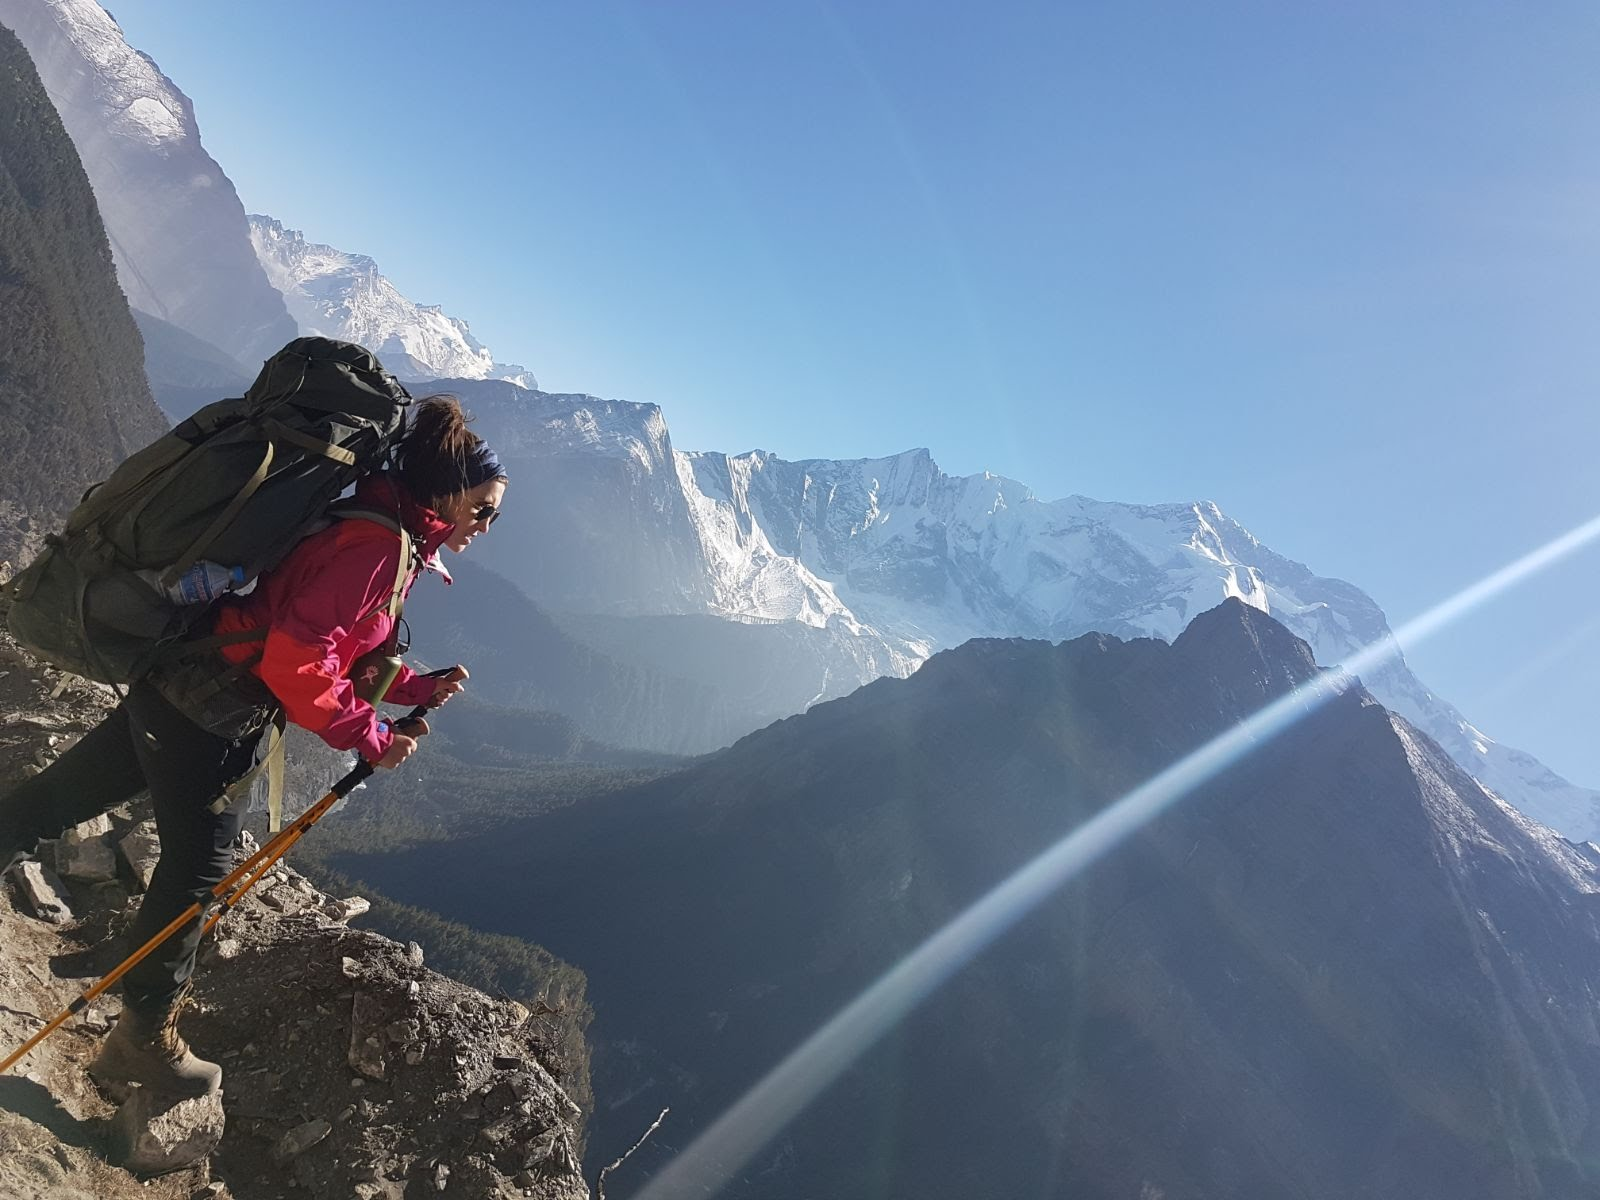
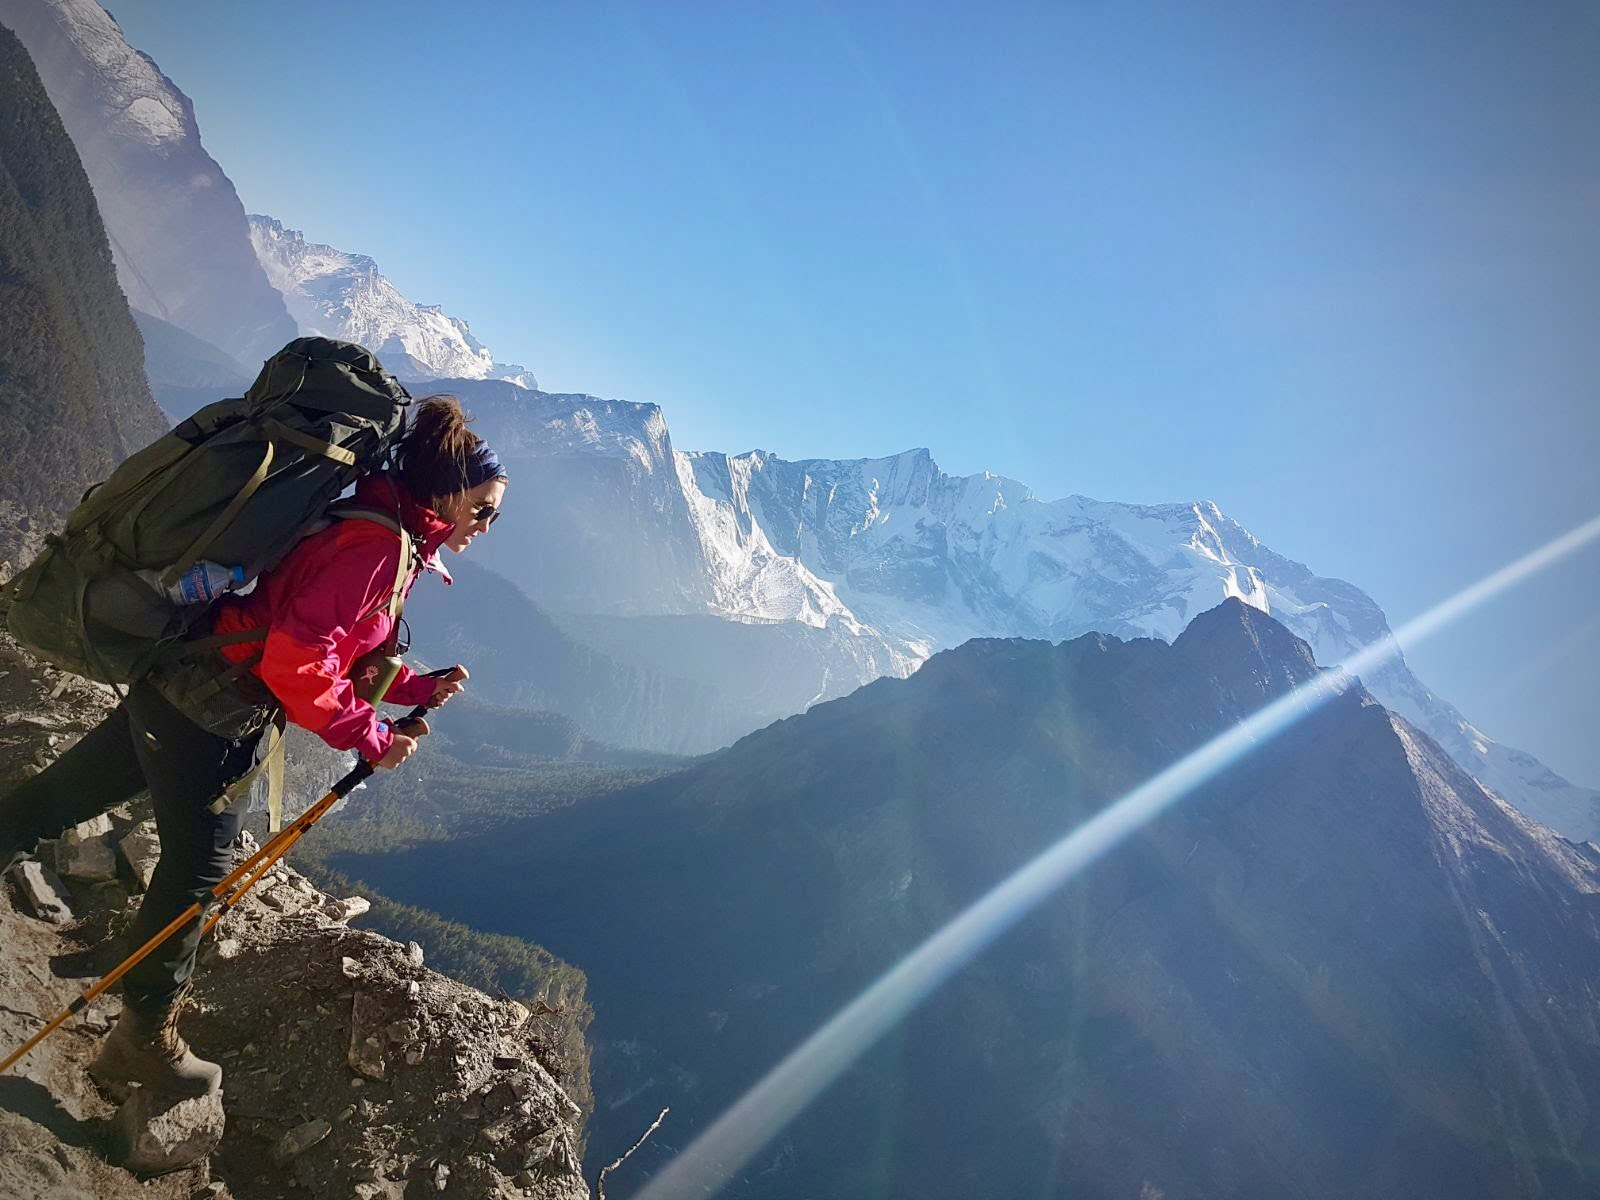
Refactoring about me img, styling and deleting unnecessary images.

diff --git a/app/assets/stylesheets/application.scss b/app/assets/stylesheets/application.scss
@@ -209,21 +209,44 @@ body {
 
 .lead {
   font-size: 1.6rem;
-  -webkit-box-shadow: inset 10rem 10rem 12rem rgb(248, 228, 172);
-          box-shadow: inset 2rem 5rem 8rem rgb(248, 228, 172);
+  -webkit-box-shadow: inset 10rem 10rem 12rem rgb(241, 204, 123);
+          box-shadow: inset 2rem 5rem 8rem rgb(241, 204, 123);
 }
 
-p {
+h1 {
+  margin-top: 30px;
+  font-weight: bold;
+}
+
+.about-card {
   font-size: 1.2rem;
   font-weight: bold;
-  -webkit-box-shadow: inset 15rem 8rem 15rem rgb(248, 228, 172);
-          box-shadow: inset 15rem 8rem 15rem rgb(248, 228, 172);
+  padding: 20px;
+  margin-top: -3%;
+  -webkit-box-shadow: inset 25rem 25rem 25rem rgb(241, 204, 123);
+          box-shadow: inset -2rem -20rem 5rem rgb(241, 204, 123);
+}
+
+.profile-img {
+  border:
+  0 2.8px 2.2px rgba(236, 162, 162, 0.034),
+  0 6.7px 5.3px rgba(0, 0, 0, 0.048),
+  0 12.5px 10px rgba(0, 0, 0, 0.06),
+  0 22.3px 17.9px rgba(0, 0, 0, 0.072),
+  0 41.8px 33.4px rgba(0, 0, 0, 0.086),
+  0 100px 80px rgba(0, 0, 0, 0.12);
+  padding: 5px;
+  min-height: 100px;
+  width: 30vw;
+  background: rgb(4, 43, 70);
+  border-radius: 5px;
+  margin-bottom: 10px;
 }
 
 .contact-card {
   font-size: 1.4rem;
-  -webkit-box-shadow: inset 2rem 3rem 5rem rgb(248, 228, 172);
-          box-shadow: inset 2rem 3rem 5rem rgb(248, 228, 172);
+  -webkit-box-shadow: inset 5rem 10rem 5rem rgb(241, 204, 123);
+          box-shadow: inset 5rem 10rem 5rem rgb(241, 204, 123);
 }
 
 .cover-heading {
